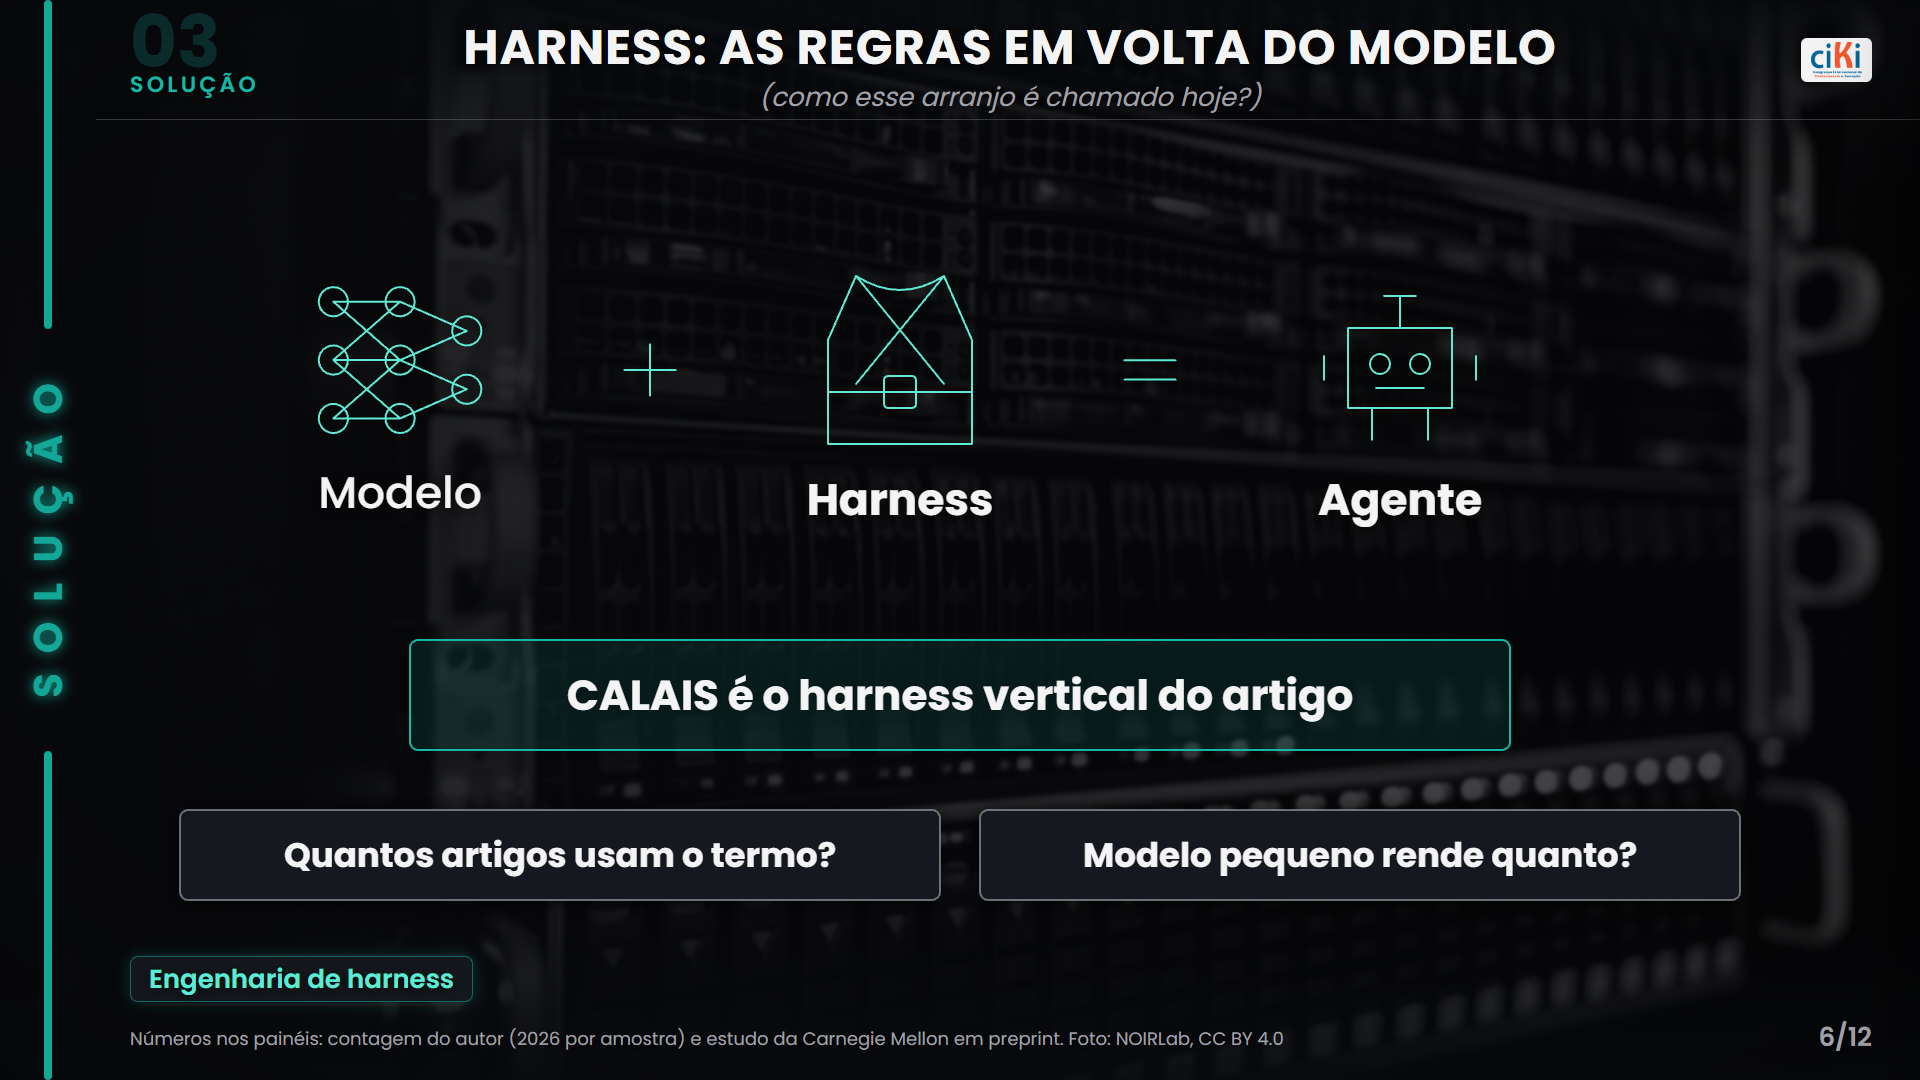
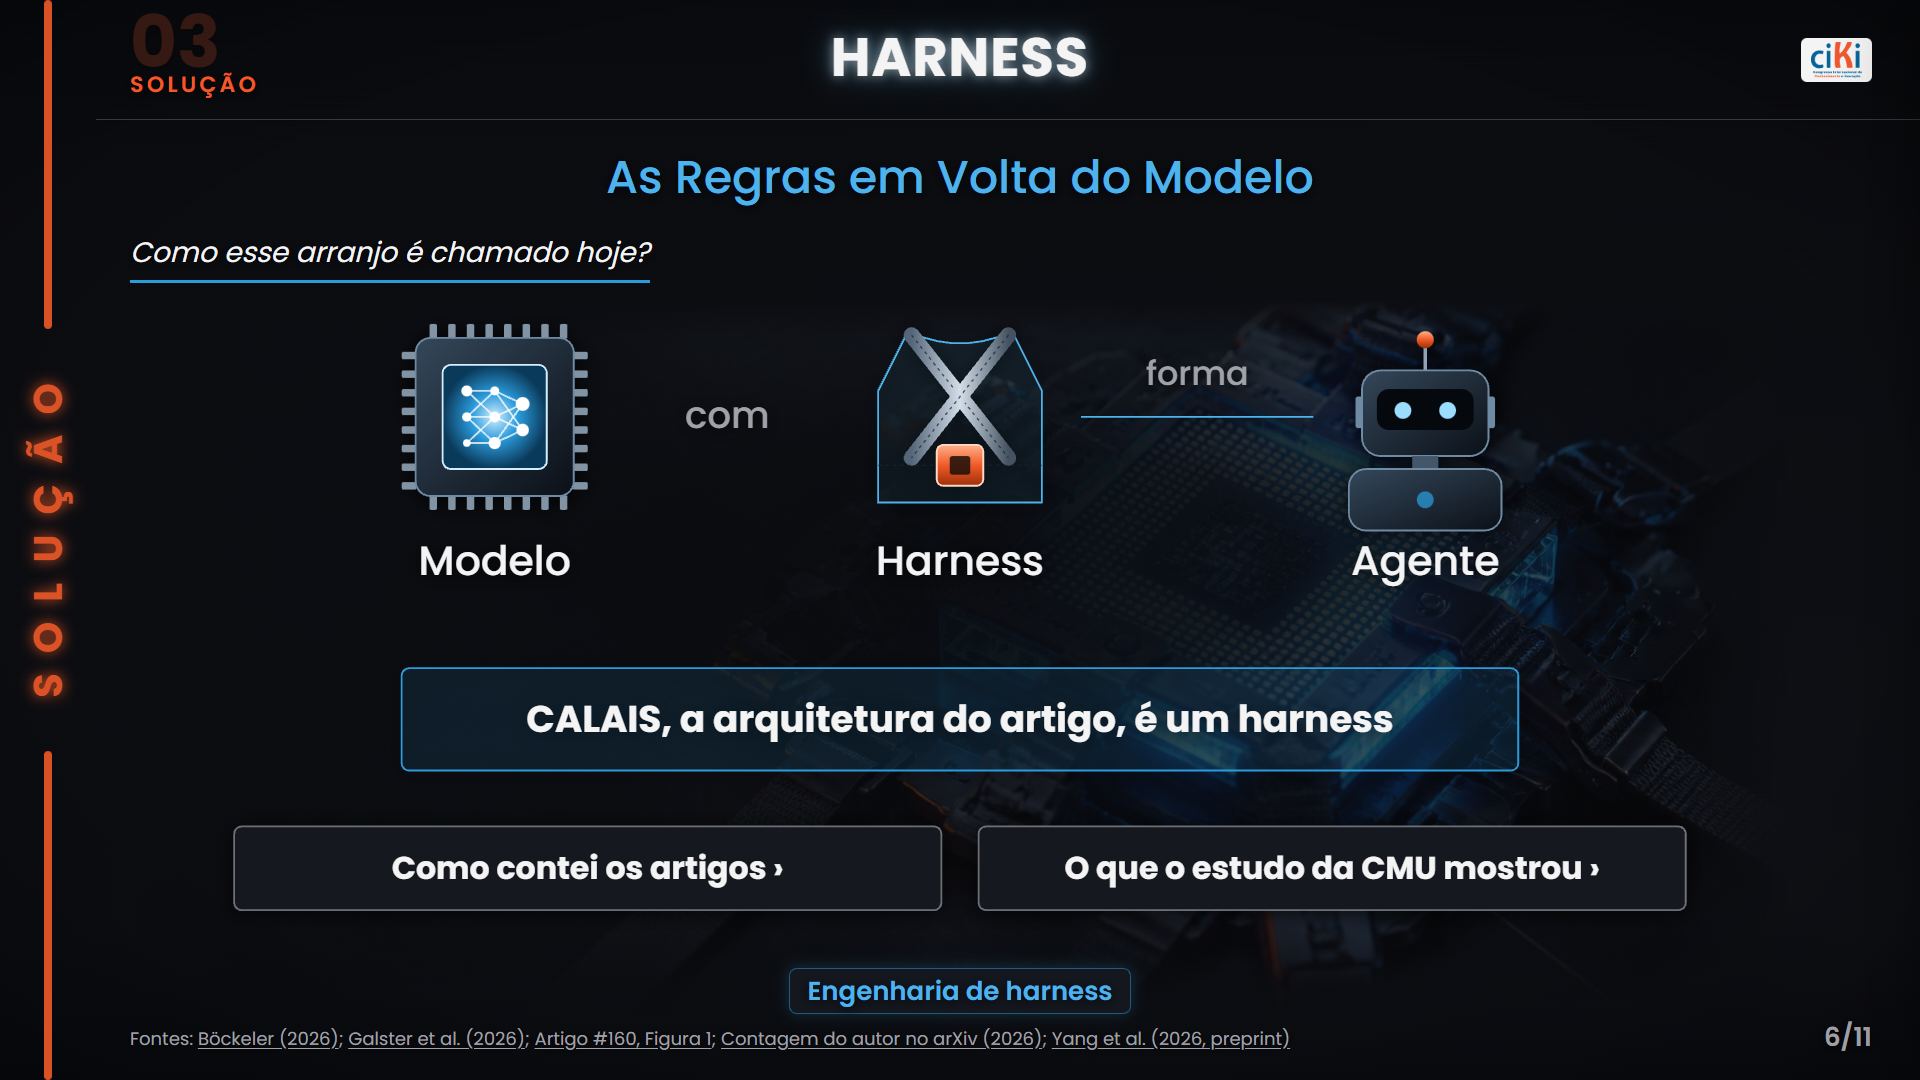
Slide 6: imagem do arnês, herói animado e realista, cards de reserva

diff --git a/web/deck.js b/web/deck.js
@@ -442,12 +442,44 @@ HEROES.s5 = K => {
 };
 
 HEROES.s9 = K => {
-  const eq = K.pic('gerar', { x: 140, y: 20, s: 200, t: 'Modelo', size: 44, step: 1 }) + K.text({ x: 490, y: 140, t: 'com', size: 40, anchor: 'middle', tone: 'nevoa', step: 2 }) +
-    PIC2('arnes', { x: 640, y: 20, s: 200, t: 'Harness', size: 44, step: 3 }) + K.arrow({ pts: [[880, 120], [1100, 120]], step: 4, t: 'forma', tx: 990, ty: 92, size: 36 }) + PIC2('agente', { x: 1140, y: 20, s: 200, t: 'Agente', size: 44, step: 5 });
+  /* v1.18.1: figuras realistas e animadas (ciclo de 6 s): o modelo pulsa, o arnês aperta e trava, o agente acorda */
+  const D = 6, R = 'repeatCount="indefinite"', S = (n, i) => '<g class="k-el" data-step="' + n + '" style="--step:' + n + '">' + i + '</g>';
+  const defs = '<defs><linearGradient id="s9m" x1="0" y1="0" x2="1" y2="1"><stop offset="0" stop-color="#34475a"/><stop offset="1" stop-color="#0b1017"/></linearGradient>' +
+    '<radialGradient id="s9d"><stop offset="0" stop-color="#d4eeff"/><stop offset=".45" stop-color="#2b9bdc"/><stop offset="1" stop-color="#0a3a5a"/></radialGradient>' +
+    '<linearGradient id="s9s" x1="0" y1="0" x2="1" y2="0"><stop offset="0" stop-color="#56667a"/><stop offset=".5" stop-color="#d3dee9"/><stop offset="1" stop-color="#445261"/></linearGradient>' +
+    '<linearGradient id="s9o" x1="0" y1="0" x2="0" y2="1"><stop offset="0" stop-color="#ffb08a"/><stop offset=".5" stop-color="#f05a28"/><stop offset="1" stop-color="#9c3009"/></linearGradient>' +
+    '<filter id="s9g" x="-60%" y="-60%" width="220%" height="220%"><feGaussianBlur stdDeviation="10"/></filter></defs>';
+  let pins = '';
+  for (let i = 0; i < 8; i++) { const p = -70 + i * 20; pins += '<rect x="' + p + '" y="-100" width="8" height="16" rx="2"/><rect x="' + p + '" y="84" width="8" height="16" rx="2"/><rect x="-100" y="' + p + '" width="16" height="8" rx="2"/><rect x="84" y="' + p + '" width="16" height="8" rx="2"/>'; }
+  const nodes = [[-30, -28], [-30, 0], [-30, 28], [0, -28], [0, 0], [0, 28], [30, -14], [30, 14]];
+  let net = '';
+  [[0, 3], [0, 4], [1, 3], [1, 4], [1, 5], [2, 4], [2, 5], [3, 6], [4, 6], [4, 7], [5, 7], [3, 7], [5, 6]].forEach(l => { net += '<path d="M' + nodes[l[0]] + 'L' + nodes[l[1]] + '"/>'; });
+  const dots = nodes.map((p, i) => '<circle cx="' + p[0] + '" cy="' + p[1] + '" r="5"><animate attributeName="r" values="4;7.5;4" dur="2.4s" begin="' + (i * .3).toFixed(1) + 's" ' + R + '/></circle>').join('');
+  const chip = '<g transform="translate(240 130)"><rect x="-60" y="-60" width="120" height="120" fill="#2b9bdc" filter="url(#s9g)" opacity=".5"><animate attributeName="opacity" values=".3;.8;.3" dur="2.4s" ' + R + '/></rect>' +
+    '<g fill="#8fa3b5" opacity=".9">' + pins + '</g><rect x="-85" y="-85" width="170" height="170" rx="16" fill="url(#s9m)" stroke="#6f8aa3" stroke-width="2"/>' +
+    '<rect x="-56" y="-56" width="112" height="112" rx="9" fill="url(#s9d)" stroke="#d4eeff" stroke-width="2"/><g stroke="rgba(255,255,255,.75)" stroke-width="2" fill="none">' + net + '</g><g fill="#fff">' + dots + '</g></g>';
+  const strap = d => '<path d="' + d + '" pathLength="1" stroke-dasharray="1" fill="none" stroke="url(#s9s)" stroke-width="17" stroke-linecap="round"><animate attributeName="stroke-dashoffset" values="1;1;0;0;1" keyTimes="0;.04;.28;.9;1" dur="' + D + 's" ' + R + '/></path>' +
+    '<path d="' + d + '" pathLength="1" stroke-dasharray=".02 .025" fill="none" stroke="#1b232b" stroke-width="1.5" opacity=".7"/>';
+  const arnes = '<g transform="translate(740 130)"><path d="M-56 -92Q0 -66 56 -92L88 -28V92H-88V-28Z" fill="rgba(77,179,234,.08)" stroke="#4db3ea" stroke-width="2"/>' +
+    strap('M-52 -88L52 44') + strap('M52 -88L-52 44') + strap('M-88 52H88') +
+    '<rect x="-25" y="30" width="50" height="44" rx="7" fill="url(#s9o)" stroke="#ffd7c2" stroke-width="2"/><rect x="-11" y="42" width="22" height="20" rx="3" fill="#1b0f08" opacity=".85"/>' +
+    '<rect x="-30" y="26" width="14" height="52" fill="#fff" opacity="0" transform="skewX(-20)"><animate attributeName="opacity" values="0;0;.6;0;0" keyTimes="0;.3;.34;.4;1" dur="' + D + 's" ' + R + '/><animate attributeName="x" values="-30;-30;20;20" keyTimes="0;.3;.4;1" dur="' + D + 's" ' + R + '/></rect>' +
+    '<circle cx="0" cy="52" r="10" fill="none" stroke="#f05a28" stroke-width="3" opacity="0"><animate attributeName="r" values="10;10;60;60" keyTimes="0;.28;.5;1" dur="' + D + 's" ' + R + '/><animate attributeName="opacity" values="0;0;.9;0;0" keyTimes="0;.27;.28;.5;1" dur="' + D + 's" ' + R + '/></circle></g>';
+  const eye = x => '<ellipse cx="' + x + '" cy="-27" rx="9" ry="9" fill="#9bdcff"><animate attributeName="ry" values="9;9;1;9;9" keyTimes="0;.5;.53;.56;1" dur="3s" ' + R + '/></ellipse>';
+  const agente = '<g transform="translate(1240 150)"><path d="M0 -70V-98" stroke="#8fa3b5" stroke-width="4"/><circle cx="0" cy="-103" r="7" fill="url(#s9o)"><animate attributeName="r" values="6;10;6" dur="1.6s" ' + R + '/></circle>' +
+    '<rect x="-75" y="-42" width="9" height="34" rx="3" fill="#6f8aa3"/><rect x="66" y="-42" width="9" height="34" rx="3" fill="#6f8aa3"/>' +
+    '<rect x="-68" y="-70" width="136" height="92" rx="20" fill="url(#s9m)" stroke="#6f8aa3" stroke-width="2"/><rect x="-52" y="-50" width="104" height="44" rx="13" fill="#05080c"/>' +
+    '<g opacity=".3"><animate attributeName="opacity" values=".3;.3;1;1;.3" keyTimes="0;.3;.4;.9;1" dur="' + D + 's" ' + R + '/>' + eye(-24) + eye(24) + '</g>' +
+    '<rect x="-14" y="22" width="28" height="14" fill="#44566a"/><rect x="-82" y="36" width="164" height="66" rx="18" fill="url(#s9m)" stroke="#6f8aa3" stroke-width="2"/>' +
+    '<circle cx="0" cy="69" r="9" fill="#2b9bdc"><animate attributeName="opacity" values=".35;.35;1;.5;1;.35" keyTimes="0;.3;.4;.6;.8;1" dur="' + D + 's" ' + R + '/></circle></g>';
+  const eq = defs + '<g transform="translate(60 0)">' + S(1, chip) + K.text({ x: 240, y: 300, t: 'Modelo', size: 44, anchor: 'middle', step: 1 }) +
+    K.text({ x: 490, y: 142, t: 'com', size: 40, anchor: 'middle', tone: 'nevoa', step: 2 }) + S(3, arnes) + K.text({ x: 740, y: 300, t: 'Harness', size: 44, anchor: 'middle', step: 3 }) +
+    K.arrow({ pts: [[870, 130], [1120, 130]], step: 4, t: 'forma', tx: 995, ty: 96, size: 36 }) +
+    '<circle class="prt" r="8"><animateMotion dur="2.4s" ' + R + ' path="M870 130H1110"/></circle>' + S(5, agente) + K.text({ x: 1240, y: 300, t: 'Agente', size: 44, anchor: 'middle', step: 5 }) + '</g>';
   return K.svg(1600, 720, eq +
     OG('<g data-open="s5-calais" aria-label="CALAIS, a arquitetura do artigo, é um harness: ver os três níveis">', K.box({ x: 200, y: 400, w: 1200, h: 110, t: 'CALAIS, a arquitetura do artigo, é um harness', size: 40, fill: true, step: 6 })) +
-    OG('<g data-open="s9-metodo" aria-label="Quantos artigos usam o termo harness: ver o método da contagem">', K.box({ x: 20, y: 570, w: 760, h: 90, t: 'Quantos artigos usam o termo?', size: 34, step: 7 })) +
-    OG('<g data-open="s9-cmu" aria-label="Quanto rende um modelo pequeno com bom harness: ver o estudo da Carnegie Mellon">', K.box({ x: 820, y: 570, w: 760, h: 90, t: 'Modelo pequeno rende quanto?', size: 34, step: 8 })),
+    OG('<g data-open="s9-metodo" aria-label="Quantos artigos usam o termo harness: ver o método da contagem">', K.box({ x: 20, y: 570, w: 760, h: 90, t: 'Como contei os artigos ›', size: 34, step: 7 })) +
+    OG('<g data-open="s9-cmu" aria-label="Quanto rende um modelo pequeno com bom harness: ver o estudo da Carnegie Mellon">', K.box({ x: 820, y: 570, w: 760, h: 90, t: 'O que o estudo da CMU mostrou ›', size: 34, step: 8 })),
     'Modelo com harness forma um agente; CALAIS, a arquitetura do artigo, é um harness');
 };
 

diff --git a/web/index.html b/web/index.html
@@ -84,7 +84,7 @@
 
 <!-- 5 -->
 <section class="slide s5" data-title="A IA propõe e as regras conferem" data-t="45" data-block="SOLUÇÃO" data-fontes="art-arq,prov-dm,art-dsr" aria-label="Neural propõe, simbólico verifica">
-<div class="bgimg frame" style="background-image:url(img/sinalizacao.jpg);background-size:cover;background-position:center;--fx:130px;--fw:1660px;--vx:50%;--vy:55%;--vrx:42%;--vry:46%"></div>
+<div class="bgimg frame" style="background-image:url(img/linha_producao.jpg);background-size:cover;background-position:center;--fx:130px;--fw:1660px;--vx:50%;--vy:55%;--vrx:42%;--vry:46%"></div>
 <div class="veil"></div>
 <h1 class="ttl"><span class="w">COMO FUNCIONA</span></h1>
 <p class="sub">A IA Propõe e as Regras Conferem</p>
@@ -101,7 +101,7 @@
 
 <!-- 6 NOME DO QUE ACABAMOS DE VER -->
 <section class="slide s9" data-title="Harness: as regras em volta do modelo" data-t="40" data-block="SOLUÇÃO" data-fontes="bockeler2026,galster2026,art-arq,arxiv-count,cmu" aria-label="Agente é modelo mais harness">
-<div class="bgimg" style="background-image:url(img/servidores.jpg)"></div>
+<div class="bgimg frame" style="background-image:url(img/harness.jpg);background-size:cover;background-position:center;--fx:130px;--fw:1660px;--vx:50%;--vy:36%;--vrx:36%;--vry:30%"></div>
 <div class="veil"></div>
 <h1 class="ttl"><span class="w">HARNESS</span></h1>
 <p class="sub">As Regras em Volta do Modelo</p>
@@ -335,6 +335,6 @@
 <script src="lib/three.min.js"></script>
 <script src="img/mundo.js"></script>
 <script src="matrix8.js"></script>
-<script src="deck.js?v=17"></script>
+<script src="deck.js?v=19"></script>
 </body>
 </html>
